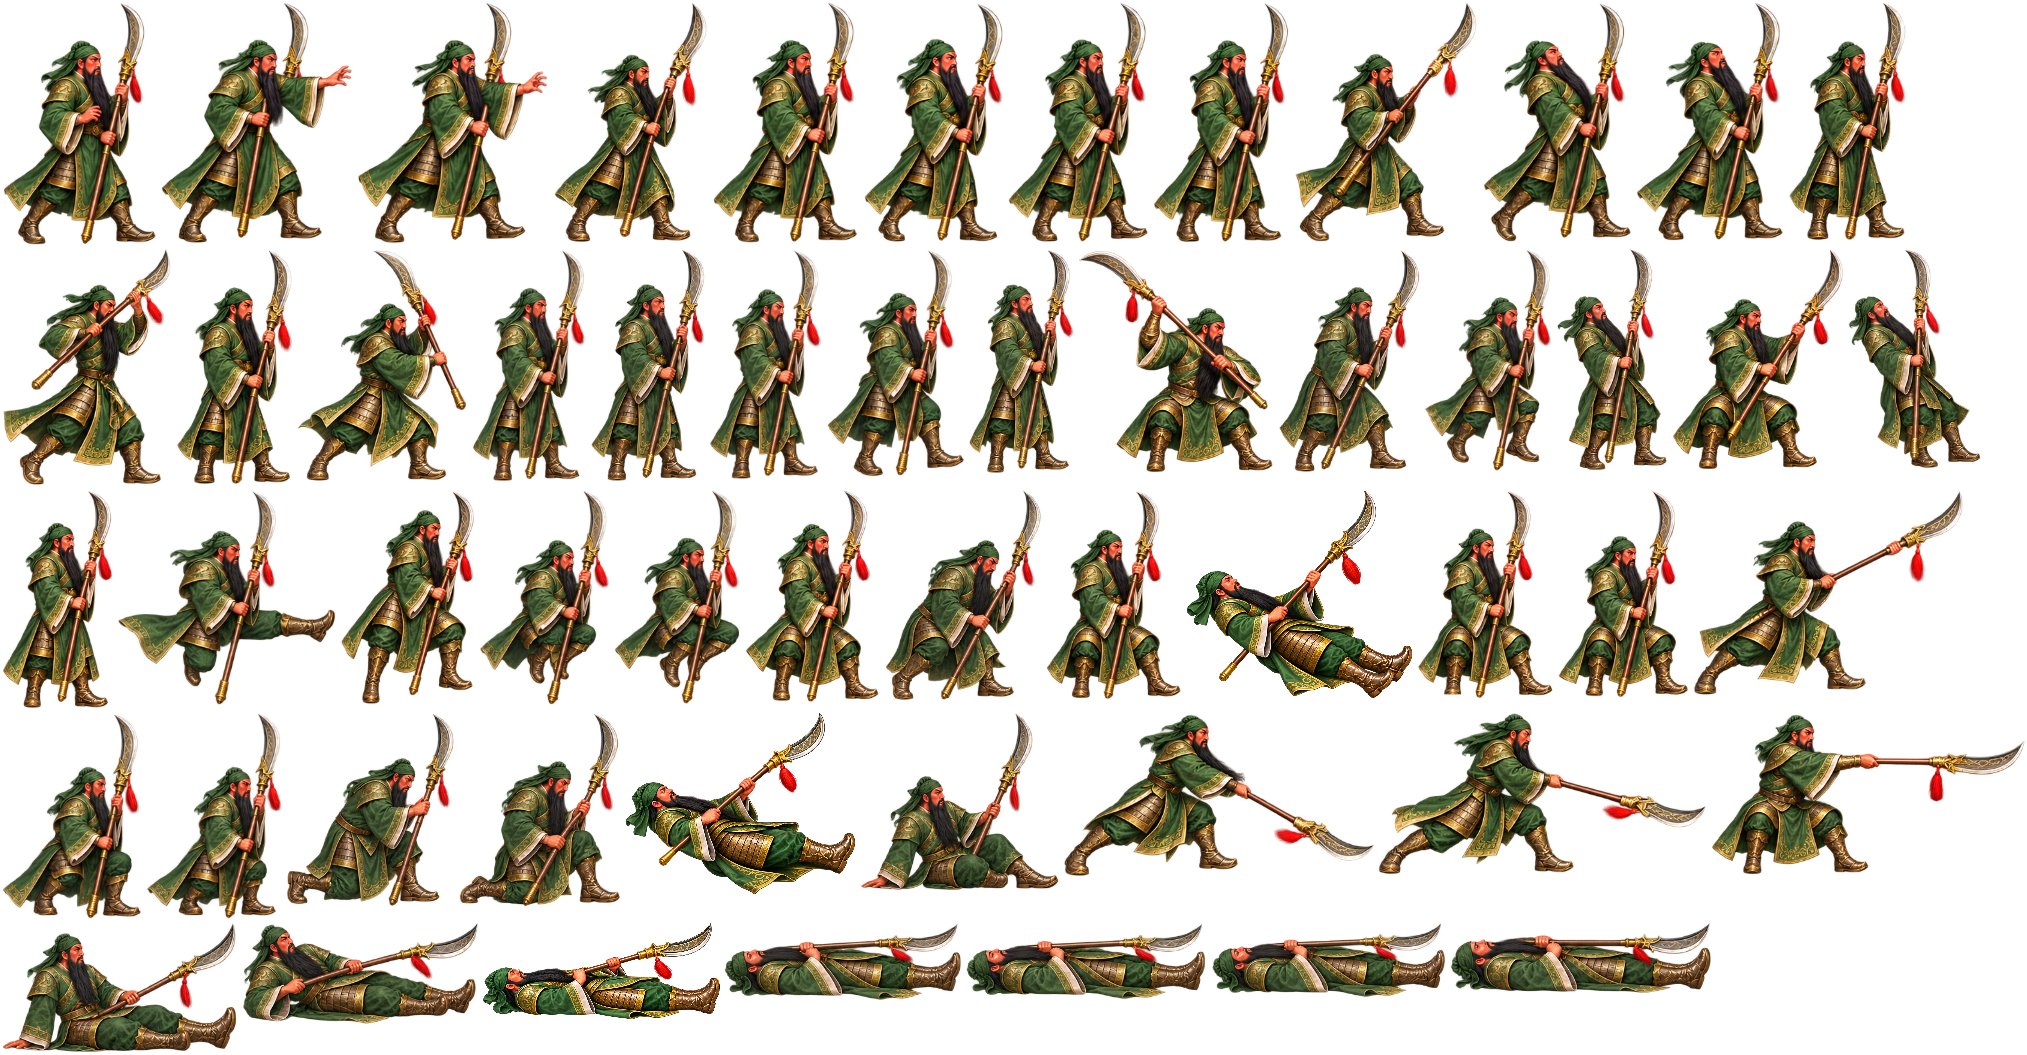
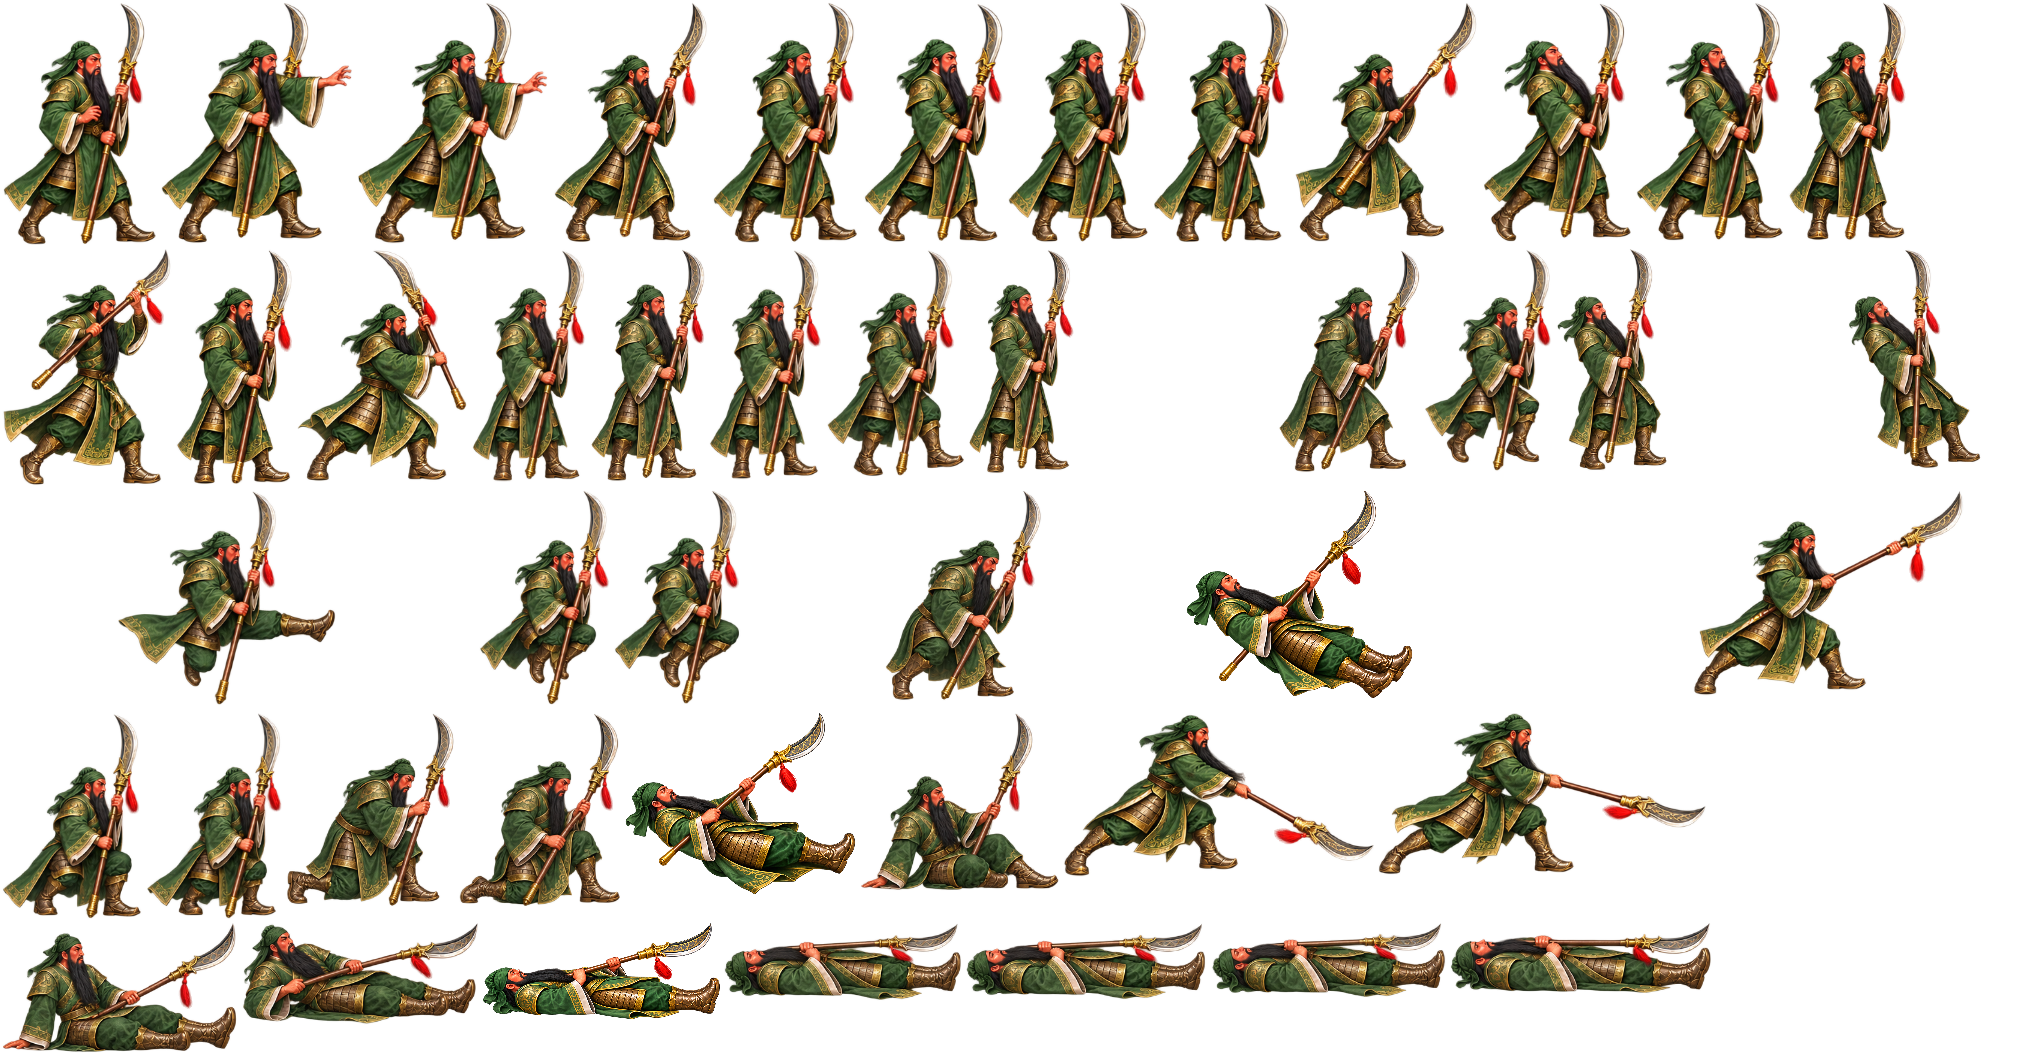
Strip Guan Yu rider frames from actions motion pack

diff --git a/test/game/motion-runtime.test.ts b/test/game/motion-runtime.test.ts
@@ -170,7 +170,7 @@ describe('stage-scoped motion runtime', () => {
     expect(Object.keys(motions()).sort()).toEqual(['archer', 'guanyu', 'lidian', 'soldier', 'spearman'])
     // One texture per atlas page; every frame is a shared atlas frame.
     expect(textures.get(keys.sheet)!.frames.size).toBe(36)
-    expect(textures.get(keys.actions)!.frames.size).toBe(54)
+    expect(textures.get(keys.actions)!.frames.size).toBe(45)
     for (const [name, cell] of Object.entries(meta.frames)) {
       const tex = textures.get(cell.sheet === 'actions' ? keys.actions : keys.sheet)!
       const frame = tex.frames.get(motionFrameId('guanyu', name))!
@@ -181,8 +181,8 @@ describe('stage-scoped motion runtime', () => {
     }
     // Budgets, kept separate and never raised.
     const rep = rt.budget()
-    expect(rep.networkBytes).toBe(4_328_499 + 1_786_372 + 1_352_663 + 1_830_948 + 2_102_566)
-    expect(rep.sourceBytes).toBe(4_328_499 + 1_786_372 + 1_352_663 + 1_830_948 + 2_102_566)
+    expect(rep.networkBytes).toBe(3_908_521 + 1_786_372 + 1_352_663 + 1_830_948 + 2_102_566)
+    expect(rep.sourceBytes).toBe(3_908_521 + 1_786_372 + 1_352_663 + 1_830_948 + 2_102_566)
     expect(rep.perFighterDecoded['guanyu']).toBe(1935 * 903 * 4 + 2027 * 1055 * 4)
     expect(rep.perFighterDecoded['soldier']).toBe(1984 * 1142 * 4)
     expect(rep.perFighterDecoded['spearman']).toBe(1835 * 866 * 4)
@@ -216,14 +216,15 @@ describe('stage-scoped motion runtime', () => {
     gate()
     const report = await pending
     await rt.settle()
-    expect([...report.requested].sort()).toEqual(['guanyu', 'soldier', 'spearman', 'zhangfei'])
-    expect([...report.published].sort()).toEqual(['guanyu', 'soldier', 'spearman', 'zhangfei'])
-    // The two heroes (4.04 + 4.33 MB) plus soldier and spearman reach 11.50
-    // MB: the archer pack (1.83 MB) would push stage-entry downloads past
-    // the 12 MiB cap, so the scope policy defers it to legacy art - the
-    // designed priority order (hero, 2P, stage kinds), never raised ceilings.
-    expect(io.calls, 'concurrent requests share one page load each').toHaveLength(6)
-    expect(Object.keys(motions()).sort()).toEqual(['guanyu', 'soldier', 'spearman', 'zhangfei'])
+    expect([...report.requested].sort()).toEqual(['archer', 'guanyu', 'soldier', 'spearman', 'zhangfei'])
+    expect([...report.published].sort()).toEqual(['archer', 'guanyu', 'soldier', 'spearman', 'zhangfei'])
+    // The two heroes (3.52 + 3.91 MB) plus soldier, spearman and archer
+    // reach 12.40 MB, inside the 12 MiB cap; the lidian boss pack
+    // (2.10 MB) would push past it, so the scope policy defers it to
+    // legacy art - the designed priority order (hero, 2P, stage kinds),
+    // never raised ceilings.
+    expect(io.calls, 'concurrent requests share one page load each').toHaveLength(7)
+    expect(Object.keys(motions()).sort()).toEqual(['archer', 'guanyu', 'soldier', 'spearman', 'zhangfei'])
     const rep = rt.budget()
     expect(rep.perFighterDecoded['zhangfei']).toBe(2004 * 2026 * 4 + 1693 * 768 * 4)
     expect(rep.perFighterDecoded['zhangfei']).toBeLessThanOrEqual(22 * 1024 * 1024)
@@ -232,8 +233,8 @@ describe('stage-scoped motion runtime', () => {
     rt.cancelLoads()
     rt.releaseScene(scene)
     const restart = await rt.prepareStage(scene, req)
-    expect([...restart.published].sort()).toEqual(['guanyu', 'soldier', 'spearman', 'zhangfei'])
-    expect(io.calls, 'restart re-downloads nothing').toHaveLength(6)
+    expect([...restart.published].sort()).toEqual(['archer', 'guanyu', 'soldier', 'spearman', 'zhangfei'])
+    expect(io.calls, 'restart re-downloads nothing').toHaveLength(7)
     // Stage2 requests its new boss before mooks. Warm stage1 spear stays
     // published, but is not counted as a newly planned stage2 download.
     rt.cancelLoads()
@@ -241,8 +242,8 @@ describe('stage-scoped motion runtime', () => {
     const again = await rt.prepareStage(scene, motionStageRequest('stage2', 'zhangfei', 'guanyu'))
     expect(again.requested).toEqual(['zhangfei', 'guanyu', 'xiahoudun', 'soldier'])
     expect([...again.published].sort()).toEqual(['guanyu', 'soldier', 'xiahoudun', 'zhangfei'])
-    expect(Object.keys(motions()).sort()).toEqual(['guanyu', 'soldier', 'spearman', 'xiahoudun', 'zhangfei'])
-    expect(io.calls, 'only the newly needed boss downloads').toHaveLength(7)
+    expect(Object.keys(motions()).sort()).toEqual(['archer', 'guanyu', 'soldier', 'spearman', 'xiahoudun', 'zhangfei'])
+    expect(io.calls, 'only the newly needed boss downloads').toHaveLength(8)
     expect(rt.budget().networkBytes - rep.networkBytes).toBe(2220630)
     expect(rt.budget().clonedCanvasBytes).toBe(0)
     rt.cancelLoads()
@@ -257,14 +258,14 @@ describe('stage-scoped motion runtime', () => {
     // by the prior runtime simply because that runtime is not under test here.
     const evictScene = makeScene()
     const report2 = await evicting.prepareStage(evictScene.scene, motionStageRequest('stage1', 'zhangfei', 'guanyu'))
-    expect([...report2.published].sort()).toEqual(['guanyu', 'soldier', 'spearman', 'zhangfei'])
+    expect([...report2.published].sort()).toEqual(['archer', 'guanyu', 'soldier', 'spearman', 'zhangfei'])
     evicting.releaseScene(evictScene.scene)
     expect(evictScene.motions(), 'evicted pack leaves the registry').toEqual({})
     expect(evictScene.textures.has(keys.sheet), 'evicted pack removes its textures').toBe(false)
     expect(evictScene.textures.has(keys.actions)).toBe(false)
     expect(motions().xiahoudun, 'other runtime retains its valid boss').toBeDefined()
     expect(textures.has(motionTextureKeys('xiahoudun').sheet)).toBe(true)
-    expect(evictIo.calls).toHaveLength(6)
+    expect(evictIo.calls).toHaveLength(7)
   }, 60_000)
 
   it('fresh GU/default ZF stage2 prepares its boss before budget-deferred mooks with real catalog PNGs', async () => {
@@ -279,7 +280,7 @@ describe('stage-scoped motion runtime', () => {
     expect(io.calls[5]).toContain('soldier-motion-sheet')
     expect(io.calls.some((url) => url.includes('spearman') || url.includes('archer'))).toBe(false)
     expect(textures.get(motionTextureKeys('xiahoudun').sheet)!.frames.size).toBe(39)
-    expect(rt.budget()).toMatchObject({ networkBytes: 12372346, sourceBytes: 12372346, clonedCanvasBytes: 0, perFighterDecoded: { xiahoudun: 12991664 } })
+    expect(rt.budget()).toMatchObject({ networkBytes: 11440295, sourceBytes: 11440295, clonedCanvasBytes: 0, perFighterDecoded: { xiahoudun: 12991664 } })
     expect(rt.budget().sourceBytes).toBeLessThan(CONTRACT_CAPS.stageDownloads)
     rt.cancelLoads(); rt.releaseScene(scene); await rt.settle()
   }, 60000)

diff --git a/test/game/motion-weapon-arc.test.ts b/test/game/motion-weapon-arc.test.ts
@@ -28,7 +28,8 @@ describe('Guan Yu special weapon direction continuity', () => {
   it('landmark endpoints are actually supported by drawn sprite pixels', async () => {
     const sheets = [await loadImage('src/game/assets/motion/guanyu-motion-sheet.png'), await loadImage('src/game/assets/motion/guanyu-actions-sheet.png')]
     const frames = { ...regular.guanyu.frames, ...actions.frames } as Record<string, { x: number; y: number; w: number; h: number; sheet?: string; trimX?: number; trimY?: number; srcW?: number; srcH?: number }>
-    for (const [id, mark] of Object.entries(landmarks)) {
+    // rider:* landmarks describe frames stripped from the pack with the horse.
+    for (const [id, mark] of Object.entries(landmarks).filter(([id]) => !id.startsWith('rider:'))) {
       const c = frames[id]!, image = sheets[c.sheet ? 1 : 0]!
       // CMR-03 repack: restore the trimmed content at (trimX, trimY) inside
       // the full cell, exactly as the display blit does - landmarks live in

diff --git a/test/game/motion-actions.test.ts b/test/game/motion-actions.test.ts
@@ -64,6 +64,9 @@ describe('all-action Guan Yu coverage and continuity', () => {
     }
   })
   it('action atlas hash signature and every cell have clear padded edges', async () => {
+    // No rider frames: the horse was removed, so the pack carries no rider:* entries.
+    expect(Object.keys(actions.frames).filter((f) => f.startsWith('rider:'))).toEqual([])
+    expect(Object.keys(actions.frames)).toHaveLength(45)
     const buf = readFileSync('src/game/assets/motion/guanyu-actions-sheet.png')
     expect(createHash('sha256').update(buf).digest('hex')).toBe(actions.sha256.sheet)
     const img = await loadImage(buf), cv = createCanvas(img.width, img.height), g = cv.getContext('2d'); g.drawImage(img, 0, 0)

diff --git a/src/game/adapters/motion-art.ts b/src/game/adapters/motion-art.ts
@@ -155,7 +155,7 @@ export interface MotionPackDef {
 
 const GUANYU_PAGES: PackPage[] = [
[3 lines of base64/hex data omitted]
 ]
 
 /** Wei Soldier single atlas page (CMR-06B; scripts/emit-soldier-runtime.mjs). */
